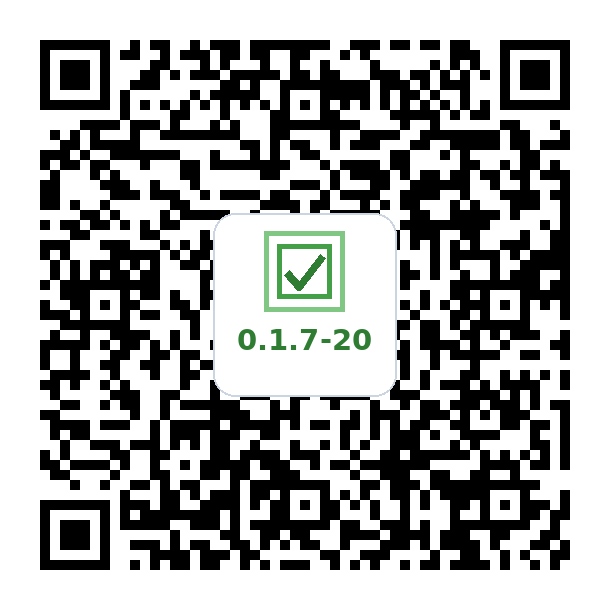
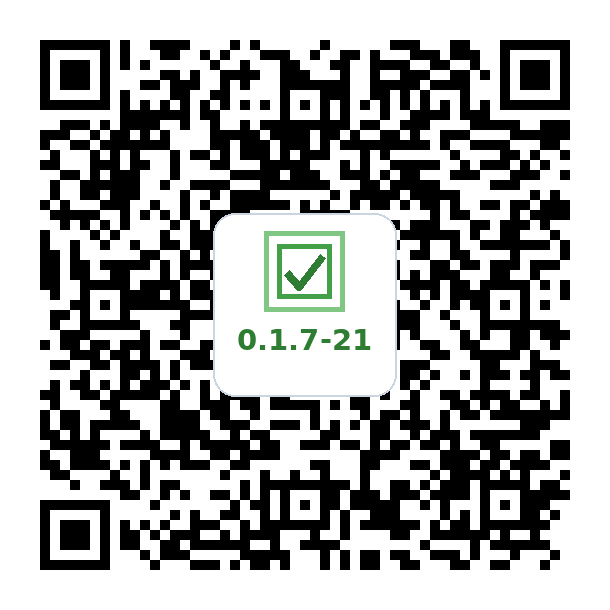
deploy: cef079bafad846225eb5d0f4758e6db8f4afa946

Changed region(s): [[0.0623, 0.0623, 0.9344, 0.9344], [0.5607, 0.5295, 0.623, 0.5918], [0.5295, 0.623, 0.5607, 0.6541]]

diff --git a/index.html b/index.html
@@ -186,9 +186,9 @@
           <div class="qr-container">
             <img src="qr.png" alt="MicroTasking APK QR Code">
             <br>
-            <a href="https://github.com/vemcg/MicroTasking/releases/download/v0.1.7-20/MicroTasking-v0.1.7-20.apk" class="btn" target="_blank" rel="noopener">Download MicroTasking APK (v0.1.7-20)</a>
+            <a href="https://github.com/vemcg/MicroTasking/releases/download/v0.1.7-21/MicroTasking-v0.1.7-21.apk" class="btn" target="_blank" rel="noopener">Download MicroTasking APK (v0.1.7-21)</a>
             <br>
-            <a href="https://github.com/vemcg/MicroTasking/releases/download/v0.1.7-20/MicroTasking-v0.1.7-20.apk" target="_blank" rel="noopener">Open the download again</a>
+            <a href="https://github.com/vemcg/MicroTasking/releases/download/v0.1.7-21/MicroTasking-v0.1.7-21.apk" target="_blank" rel="noopener">Open the download again</a>
           </div>
         </li>
         <li>
